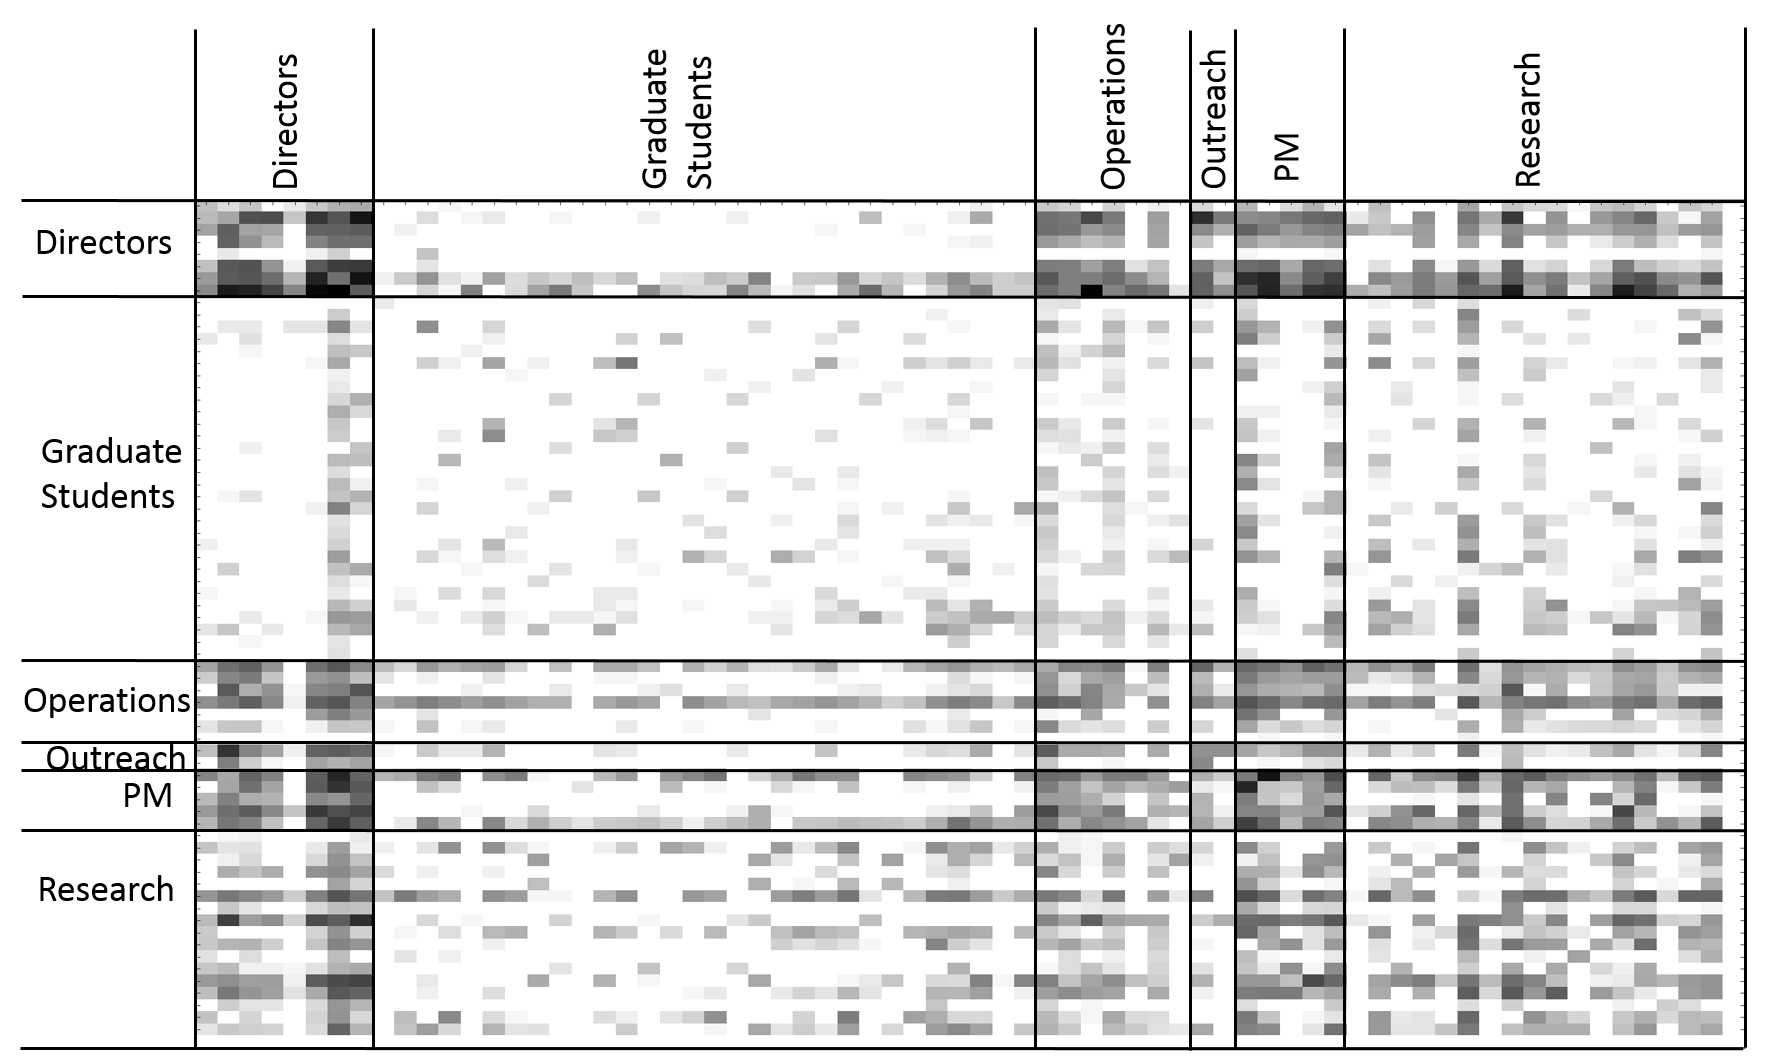
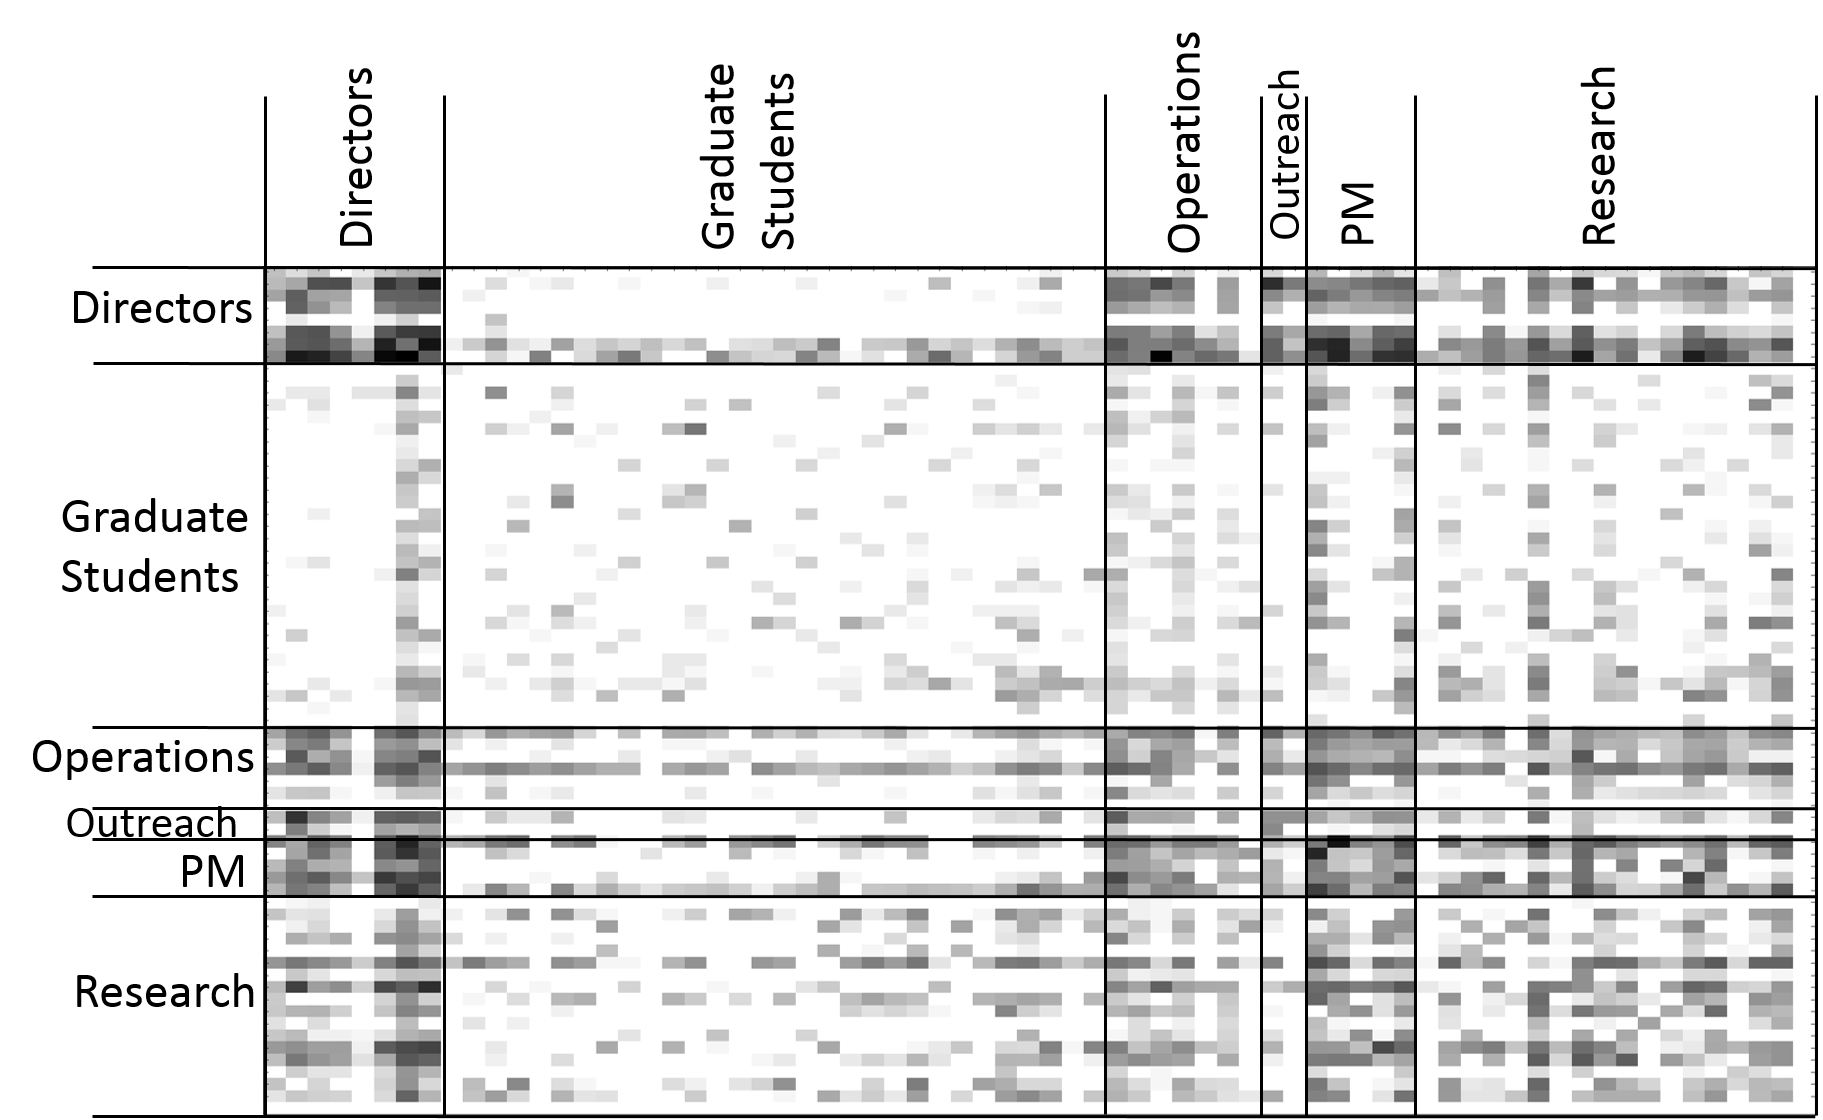
working on whitespace

diff --git a/EmailPaper.tex b/EmailPaper.tex
@@ -24,6 +24,8 @@
 \usepackage{paralist}
 \usepackage{booktabs}
 
+\usepackage[font=small,labelfont=bf]{caption}
+
 \hypersetup{breaklinks=true}
 \urlstyle{same}
 
@@ -79,8 +81,6 @@ The following is the metadata provided from each email:
 \item Number of attachments
 \end{compactitem}
 
-Table~\ref{tab:db_stats} compares statistics between this internal dataset and the Enron corpus.  This internal database is more modern, contains more emails, and covers a longer time period.  However, it is comprised of fewer people than the Enron dataset.
-
 \begin{table}[H]
 \centering
 \caption{A comparison between the internal dataset and the Enron email corpus.}
@@ -97,7 +97,11 @@ Distinct Emails    & 585,096         & 252,759       \\ \bottomrule
 }
 \end{table}
 
+
+Table~\ref{tab:db_stats} compares statistics between this internal dataset and the Enron corpus.  This internal database is more modern, contains more emails, and covers a longer time period.  However, it is comprised of fewer people than the Enron dataset.
+
 While the study includes only 37 volunteers, the email metadata from these volunteers identified 32 additional employees of the center.  These additional employees were included in the study when ground truth for their job was available and when they were identified in at least 100 email metadata records.  This provides 69 total employees in the study.
+
 
 \section{Features} \label{Features}
 The study includes 98 features that were extracted from the email data: 67 traffic-based and 31 social-based.  The traffic-based features are those calculated purely from the collected email metadata.  The social features, on the other hand, first model the email patterns in a graphical network and then calculate statistics from this model.  In the following sections, all features from each of the two categories are described. 
@@ -112,7 +116,7 @@ The features above in general involved raw email counts.  To normalize some of t
 The best traffic-based feature for predicting employee status was the number of unique subjects received.  This is deemed best because it produces the highest information gain in the feature ranker described in Section~\ref{Analysis}.  This number represents the number of distinct conversations in which an individual was involved.  It is intuitive that people who are involved in more conversations are higher in an organization.  This feature is shown in the histogram in Figure~\ref{fig:traffic_ex_hist}.  It is clear from the figure that GradStudents participated in far fewer email conversations than any other group.  Researchers generated more emails on average, but fewer than the Program Managers.  The directors of the center participate in the most email conversations, by far. 
 \begin{figure}[H]
     \centering
-        \includegraphics[width=0.5\textwidth]{Unique_subjects_rec_hist}
+        \includegraphics[width=\columnwidth,trim={1mm 20mm 1mm 2mm},clip]{Unique_subjects_rec_hist}
         \caption{Histogram of unique subjects received by job title.  The feature value for this plot has been normalized so that all values fall between 0 and 1.  Note that by using different thresholds, meaningful splits in the data can be made.  For example, all but two graduate students have a value less than $0.1$.}
         \label{fig:traffic_ex_hist}
 \end{figure}
@@ -125,9 +129,10 @@ In addition to tracking metadata statistics, features are also derived from mode
 
 \begin{figure}[H]
     \centering
-        \includegraphics[width=0.5\textwidth]{adj_matrix}
-        \caption{The adjacency matrix representing the social connections of the center.  This graph is very well connected with just one component.  Nonetheless, there are groups who never exchanged a single email.}
-        \label{fig:adj_matrix}
+    \includegraphics[width=\columnwidth,trim={4mm .5mm 0mm 5mm},clip]{adj_matrix}
+    \vspace{-17pt}
+    \caption{The adjacency matrix representing the social connections of the center.  This graph is very well connected with just one component.  Nonetheless, there are groups who never exchanged a single email.}
+    \label{fig:adj_matrix}
 \end{figure}
 
 With this representation, several statistics can be calculated about the people in the graph.  The average neighbor degree was calculated for both the partial and the full graph.  The degree of a node $i$ is the number of other nodes connected to node $i$.  Therefore for a node $i$, this metric averages the degree of each node in the neighborhood of $i$, that is all nodes connected to $i$.  Mathematically, this is:
@@ -140,7 +145,8 @@ The distances between nodes were also used to generate some features.  The avera
 Some of the social features were based on existing graph theory concepts and algorithms. If a subgraph of a graph $G$ is maximally connected, that is all nodes are connected directly to each other, then this is called a clique.  The number of cliques to which a node belongs was used as a feature.  The hubs and authorities of each node in both graphs were calculated.  The terms hubs and authorities come from the Hyperlink-Induced Topic Search (HITS algorithm) developed by~\cite{kleinberg_hubs_1999}.  This algorithm was originally designed to rate web pages, but has since been applied to social networks. A node's authority is just that\textemdash{}a measure of its importance over other nodes.  A node's hub score is a measure of how well-connected it is to other nodes.  The histogram of hub values in the full graph broken down by class is shown in Figure~\ref{fig:social_ex_hist}.  
 \begin{figure}[H]
     \centering
-        \includegraphics[width=0.5\textwidth]{Hubs_hist}
+        \includegraphics[width=\columnwidth,trim={.6mm 2mm 0.6mm 3mm},clip]{Hubs_hist}
+        \vspace{-17pt}
         \caption{Histogram of hubs from social graph by job title.  Note that directors on average have the highest hub score and graduate students have the lowest.  In fact, three out of eight directors can be identified by filtering samples on full graph hubs values $>0.6$. }
         \label{fig:social_ex_hist}
 \end{figure}
@@ -160,9 +166,10 @@ Due to the large number of features and relatively low number of participants, a
 Random forests are an ensemble method of machine learning, comprised of many random trees.  A random tree is a machine learning algorithm that uses training data to learn a series of rules for classification.  These rules are constructed in a hierarchy that visually resembles a tree.  Each decision is based on what rule will maximize the information gained.  An example random tree with depth three (i.e., it has three levels of rules) is shown below in Figure~\ref{fig:ex_tree}.
 \begin{figure}[H]
     \centering
-        \includegraphics[width=0.5\textwidth]{3_level_tree}
-        \caption{Example random tree of depth 3.  This demonstrates how just a few simple rules can be used to find significant class divisions within the data.}
-        \label{fig:ex_tree}
+    \includegraphics[width=\columnwidth,trim={0mm 2.5mm 0mm 2mm},clip]{3_level_tree}
+    \vspace{-15pt}
+    \caption{Example random tree of depth 3.  This demonstrates how just a few simple rules can be used to find significant class divisions within the data.}
+    \label{fig:ex_tree}
 \end{figure}
 
 Random forests build many deep random trees with slight random variations.  Individually, these random trees will overfit the data.  However, these many random trees are combined through a process of bootstrap aggregating, or bagging.  This process involves each random tree generating a new training data set by sampling observations from the input training set with replacement.  These subsamples are used to build the random trees.  For this analysis, each of the 750 trees selects $\frac{2N}{3}$ samples to train the trees where $N$ is the number of data points in the overall training set.  Just as the samples were subsampled, so were the features.  Only this subset of features can be used as rules for that tree.  In this implementation, each tree used a subsample of 15 random features.
@@ -183,7 +190,7 @@ Mutual information represents how well knowledge of the attribute informs the pr
 \centering
 \caption{Top 20 features ranked by the information gain method.}
 \label{tab:ranked_feats}
-\resizebox{0.5\textwidth}{!}{%
+\resizebox{\columnwidth}{!}{%
 \begin{tabular}{@{}lrr@{}}
 \toprule
 Feature                                      & Feature Type & Ranker \\ \midrule
@@ -219,9 +226,10 @@ Data was split by randomly assigning each email to either the training or testin
 
 \begin{figure}[H]
     \centering
-        \includegraphics[width=0.5\textwidth]{Prediction_50_50_RF}
-        \caption{The Random Forest algorithm was extremely accurate even for very uneven class sizes.  Note that all members of 4 classes were labelled perfectly.  There were only 2 errors out of 69 employees, both of which for employees who did not provide emails for the study.}
-        \label{fig:result_hist}
+    \includegraphics[width=\columnwidth,trim={1mm 2mm 1mm 3mm},clip]{Prediction_50_50_RF}
+    \vspace{-20pt}
+    \caption{The Random Forest algorithm was extremely accurate even for very uneven class sizes.  Note that all members of 4 classes were labelled perfectly.  There were only 2 errors out of 69 employees, both of which for employees who did not provide emails for the study.}
+    \label{fig:result_hist}
 \end{figure}
 
 Note that this method relies on some assumptions.  One is that employees with the same title exhibit similar email behavior.  Overall, based on the success of the algorithm and the distributions of the histograms, this seems to prove true.  Another premise underlying this analysis is that peoples' email behaviors are consistent over time.  This seems to be true as well for the time range in this study.
@@ -229,7 +237,8 @@ Note that this method relies on some assumptions.  One is that employees with th
 To determine which features were necessary to the analysis, the algorithm was run several times with a subset of the features.  The first subset used only the top 20 features from Table~\ref{tab:ranked_feats}.  Using only these features resulted in 3 classification errors, or 95.6\% accuracy.  This is only one more error than was found using all 98 features.  For each subsequent run, the least useful feature according to the feature analysis was removed from the input to the system until only one feature remained.  A plot of this analysis is shown below in Figure \ref{fig:feat_analysis}  Even using just the top thee features resulted in classification accuracy over 80\%.  Therefore, a very good classifier can be built using much fewer features if the features are selected properly.
 \begin{figure}[H]
     \centering
-        \includegraphics[width=0.5\textwidth]{FeatureAnalysis}
+        \includegraphics[width=.9\columnwidth,trim={1mm 6mm 1mm 3.5mm},clip]{FeatureAnalysis}
+        \vspace{-7pt}
         \caption{Prediction accuracy compared to number of features used for analysis.  Note that the accuracy is still very high, 95.6\%, when only twenty features are used.  The outcome of using only the top twenty features produces three classification errors, only one more than using the full set of 98 features. }
         \label{fig:feat_analysis}
 \end{figure}
